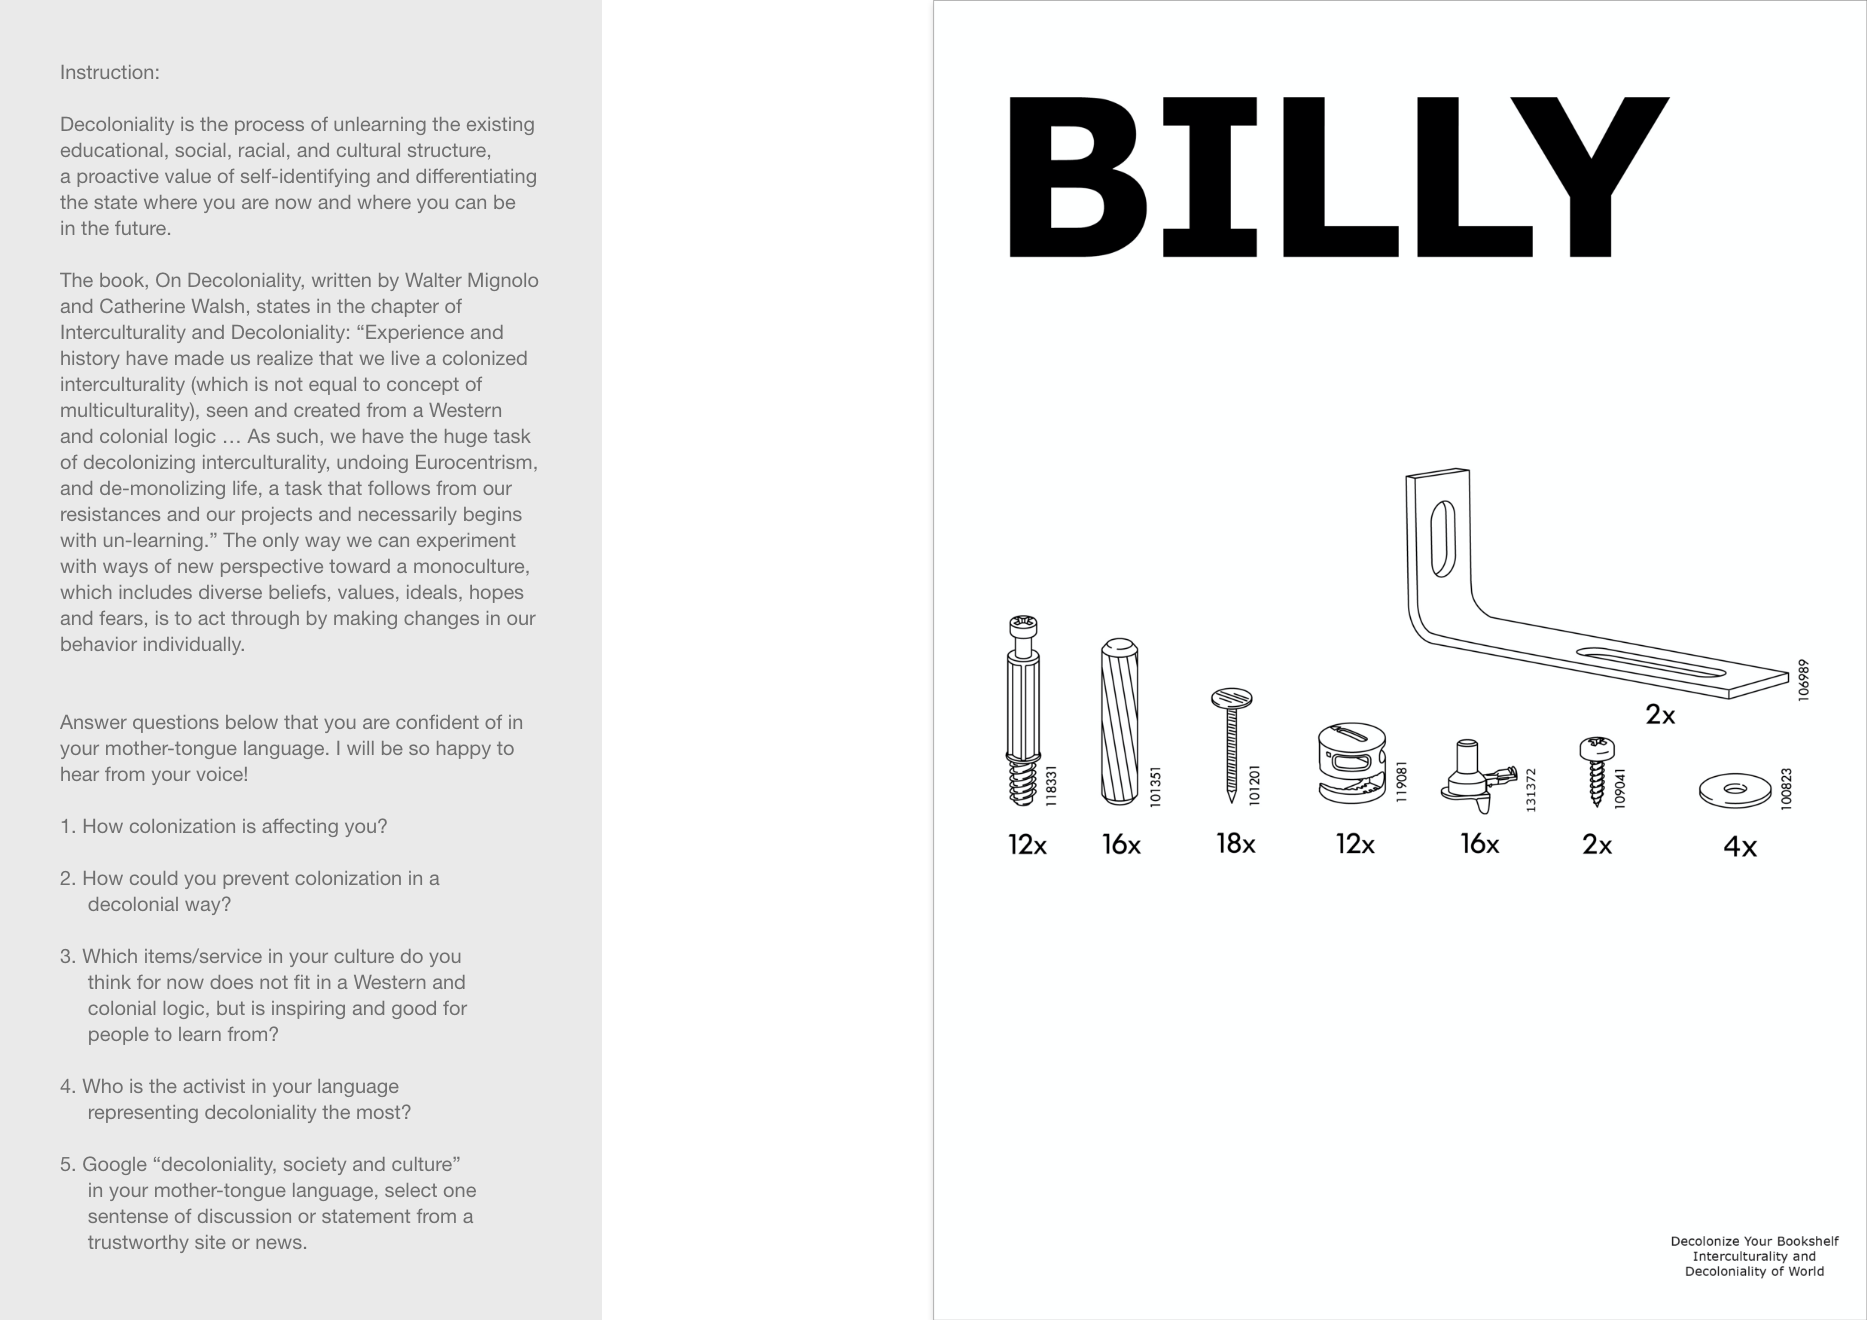
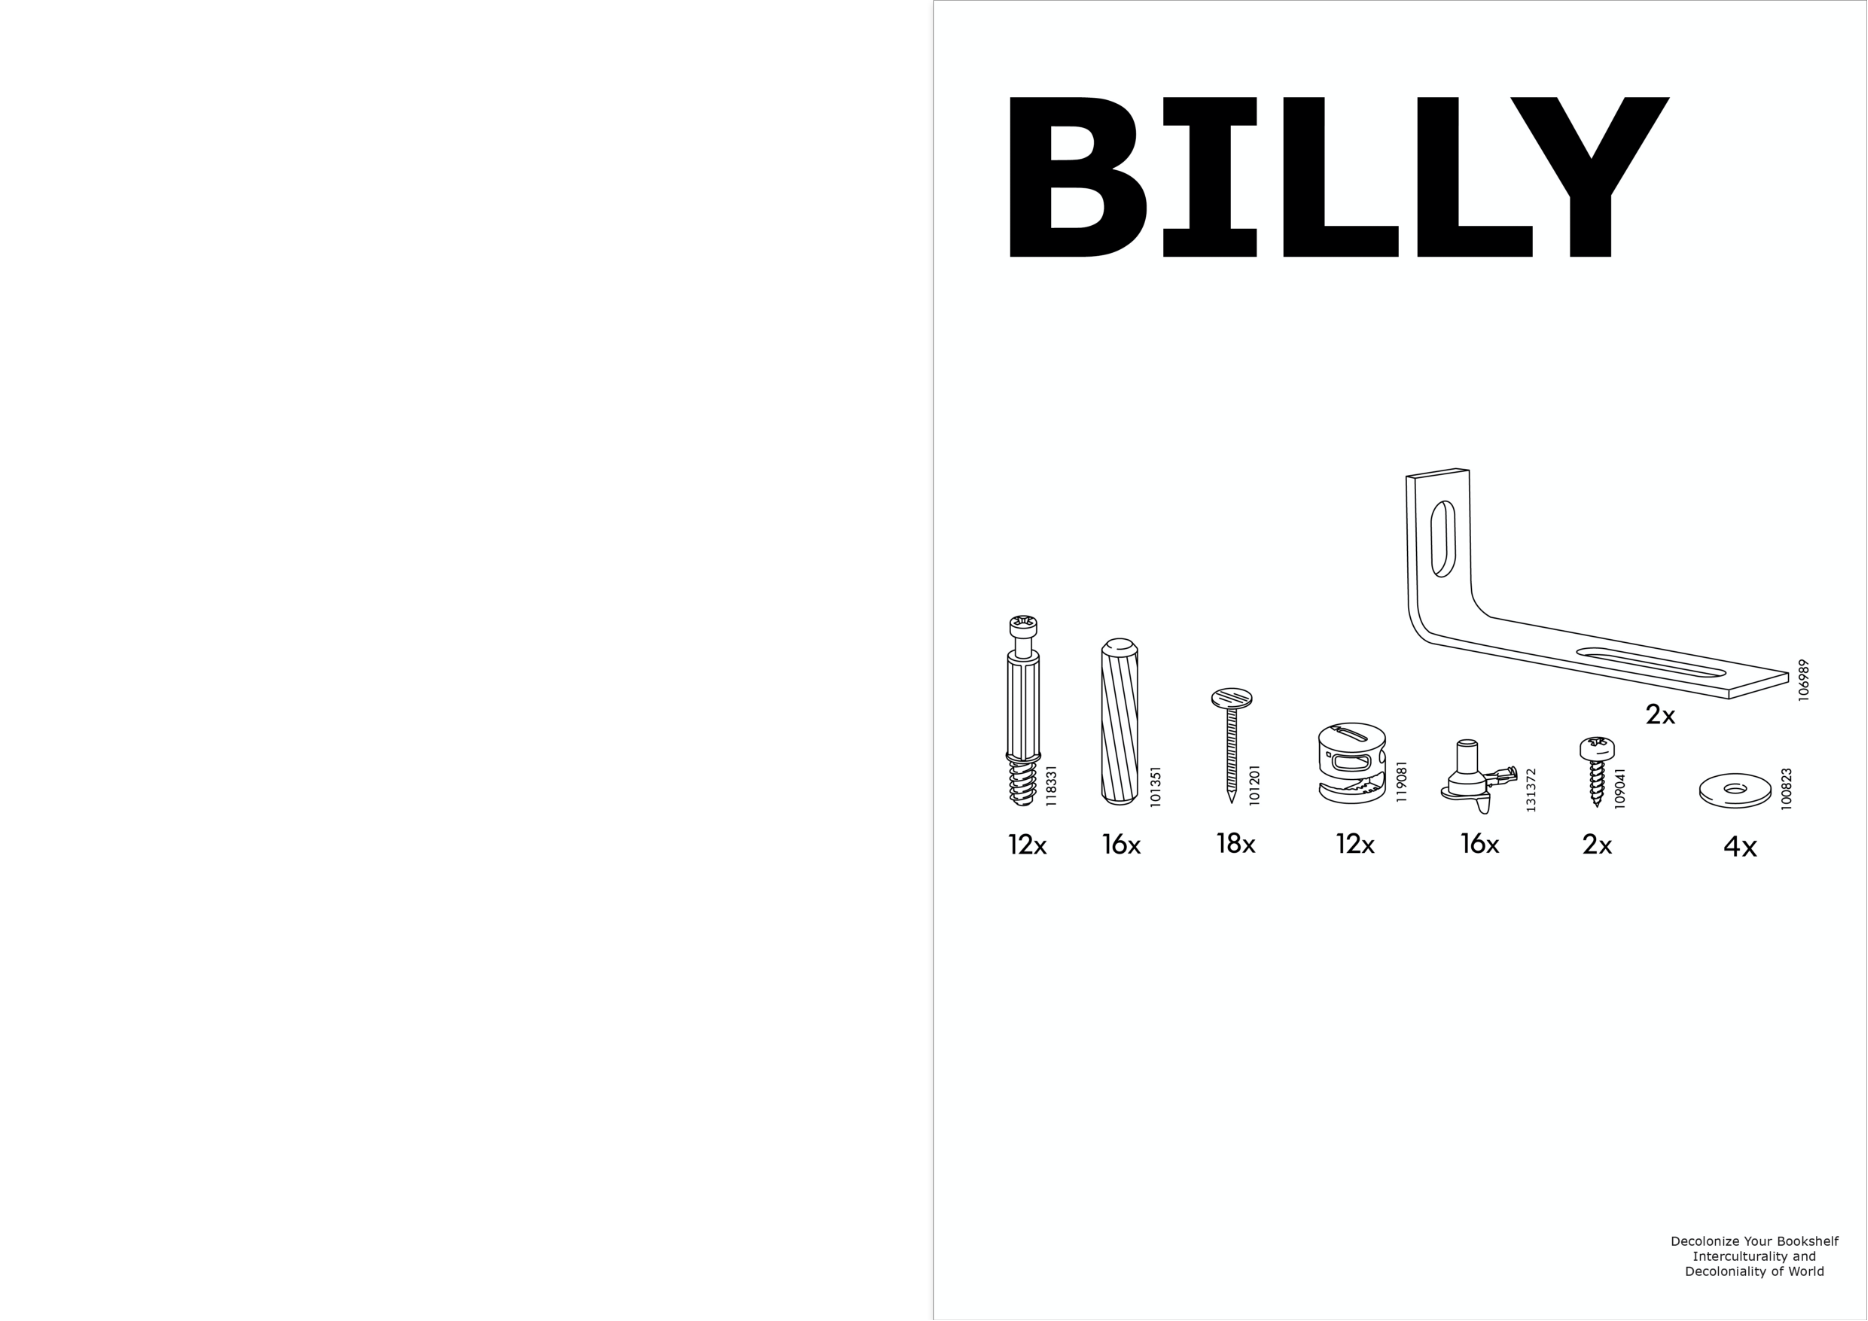
d
d

diff --git a/billy.html b/billy.html
@@ -29,7 +29,9 @@
 <div class="blue"><a class="logolink" a href="about.html">About</a></div>
 </content>
 <content class="slide">
-<div class="purple"><img src="img/5-1.png" style="width:100%;height:auto;"></div>
+<div class="purple">
+<img src="img/5-1.png" style="width:100%;height:auto;">
+</div>
 </content>
 <content class="thumbnail1">
 <div class="yellow">
@@ -64,8 +66,33 @@ Jungmin Park.</p1>
 </div>
 </content>
 
-<content class="thumbnail4">
-<div class="chrome">
+<content class="thumbnail5">
+<div class="heather">
+<p1>Instruction<p1>
+<br>
+<br><p1>Decoloniality is the process of unlearning the existing 
+educational, social, racial, and cultural structure, 
+a proactive value of self-identifying and differentiating the state where you are now and where you can be 
+in the future.<p1>
+<br>
+<br><p1>The book, On Decoloniality, written by Walter Mignolo and Catherine Walsh, states in the chapter of Interculturality and Decoloniality: “Experience and history have made us realize that we live a colonized interculturality (which is not equal to concept of multiculturality), seen and created from a Western and colonial logic … As such, we have the huge task of decolonizing interculturality, undoing Eurocentrism, 
+and de-monolizing life, a task that follows from our 
+resistances and our projects and necessarily begins with un-learning.” The only way we can experiment with ways of new perspective toward a monoculture, which includes diverse beliefs, values, ideals, hopes and fears, is to act through by making changes in our behavior individually.</p1>
+</div>
+</content>
+
+<content class="thumbnail6">
+<div class="heather">
+<p1>Answer questions below that you are confident of in your mother-tongue language. I will be so happy to hear from your voice:</p1>
+<br>
+<br><p2>How colonization is affecting you?</p2> <br><p2>How could you prevent colonization in a decolonial way?</p2> <br><p2>Which items/service in your culture do you think for now does not fit in a Western and colonial logic, but is inspiring and good for people to learn from?</p2> <br><p2>Who is the activist in your language representing decoloniality the most?</p2> <br><p2>Google “decoloniality, society and culture” in your mother-tongue language, select one sentense of discussion or statement from a trustworthy site or news.</p2>
+<br>
+<br> <br><a class="link" a href="https://docs.google.com/document/d/1nKl1RJrXtXMWtppOZofBxdDz3fSLhrpP1a8cWKsNunI/edit?usp=sharing" target="_blank">click here to add your answer</a>
+</div>
+</content>
+
+<content class="thumbnail7">
+<div class="heather">
 <img src="img/5-3.png" style="width:100%;height:auto; margin-top: 3px; margin-bottom: 28px;">
 <br><img src="img/5-4.png" style="width:100%;height:auto; margin-top: -3px; margin-bottom: 28px;">
 <br><img src="img/5-5.png" style="width:100%;height:auto; margin-top: -3px; margin-bottom: 28px;">
@@ -77,8 +104,6 @@ Jungmin Park.</p1>
 
 </div>
 </content>
-
-
 
 
 

diff --git a/billystyle.css b/billystyle.css
@@ -6,7 +6,7 @@
 .site{
 display: grid;
 grid-template-columns: auto auto auto auto;
-grid-template-rows: auto auto auto auto;
+grid-template-rows: auto auto auto auto auto auto auto auto auto auto;
 grid-template-areas:
 "index-title index-title index-title index-title"
 "index-work index-work index-work index-work"
@@ -15,7 +15,9 @@ grid-template-areas:
 "index-thumbnail1 index-thumbnail1 index-thumbnail1 index-thumbnail1"
 "index-thumbnail2 index-thumbnail2 index-thumbnail2 index-thumbnail2"
 "index-thumbnail3 index-thumbnail3 index-thumbnail3 index-thumbnail3"
-"index-thumbnail4 index-thumbnail4 index-thumbnail4 index-thumbnail4";
+"index-thumbnail5 index-thumbnail5 index-thumbnail5 index-thumbnail5"
+"index-thumbnail6 index-thumbnail6 index-thumbnail6 index-thumbnail6"
+"index-thumbnail7 index-thumbnail7 index-thumbnail7 index-thumbnail7";
 margin-top: 15px;
 margin-left: 0px;
 margin-right: 0px;
@@ -69,11 +71,24 @@ margin-top: 15px;
 margin-bottom: 75px;
 }
 
-.thumbnail4{
-grid-area: index-thumbnail4;
+.thumbnail5{
+grid-area: index-thumbnail5;
+margin-left: 15px;
+margin-right: 15px;
+}
+
+.thumbnail6{
+grid-area: index-thumbnail6;
+margin-left: 15px;
+margin-right: 15px;
 margin-bottom: 28px;
 }
 
+.thumbnail7{
+grid-area: index-thumbnail7;
+margin-top: -3px;
+margin-bottom: 28px;
+}
 
 
 .green{
@@ -132,7 +147,12 @@ height: 100%;
 
 }
 
+.heather{
+background-color: white;
+width: 100%;
+height: 100%;
 
+}
 
 
 @media screen and (min-width: 736px){
@@ -140,12 +160,14 @@ height: 100%;
 .site{
 display: grid;
 grid-template-columns: 6.5% 1fr 1fr 1fr 1fr 1fr 1fr 6.5%;
-grid-template-rows: 17px auto auto;
+grid-template-rows: 17px auto 1fr auto auto;
 grid-template-areas:
 "index-work index-title index-title index-title index-title index-title index-title index-about"
 ". index-slide index-slide index-slide index-slide index-slide index-slide ."
 ". index-thumbnail1 index-thumbnail1 index-thumbnail2 index-thumbnail2 index-thumbnail3 index-thumbnail3 ."
-". index-thumbnail4 index-thumbnail4 index-thumbnail4 index-thumbnail4 index-thumbnail4 index-thumbnail4 .";
+". index-thumbnail4 index-thumbnail4 index-thumbnail4 index-thumbnail4 index-thumbnail4 index-thumbnail4 ."
+". index-thumbnail5 index-thumbnail5 index-thumbnail5 index-thumbnail6 index-thumbnail6 index-thumbnail6 ."
+". index-thumbnail7 index-thumbnail7 index-thumbnail7 index-thumbnail7 index-thumbnail7 index-thumbnail7 .";
 
 margin-top: 28px;
 margin-left: 28px;
@@ -199,8 +221,22 @@ margin-top: 0px;
 margin-bottom: 0px;
 }
 
-.thumbnail4{
-grid-area: index-thumbnail4;
+.thumbnail5{
+grid-area: index-thumbnail5;
+margin-left: 0px;
+margin-right: 0px;
+}
+
+.thumbnail6{
+grid-area: index-thumbnail6;
+margin-left: 0px;
+margin-right: 0px;
+margin-bottom: 0px;
+}
+
+.thumbnail7{
+grid-area: index-thumbnail7;
+margin-top: 0px;
 margin-bottom: 0px;
 }
 
